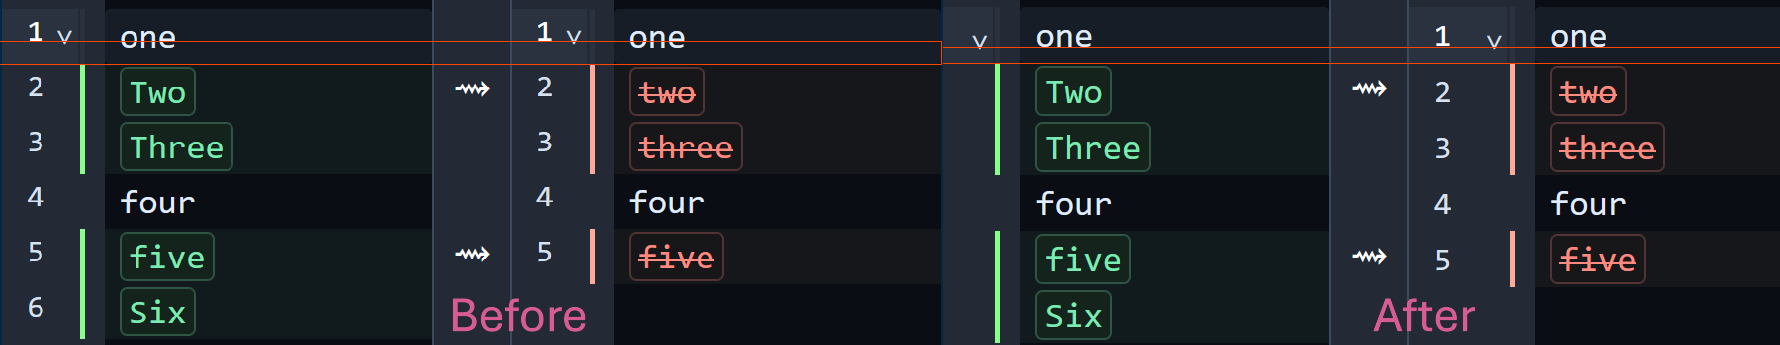
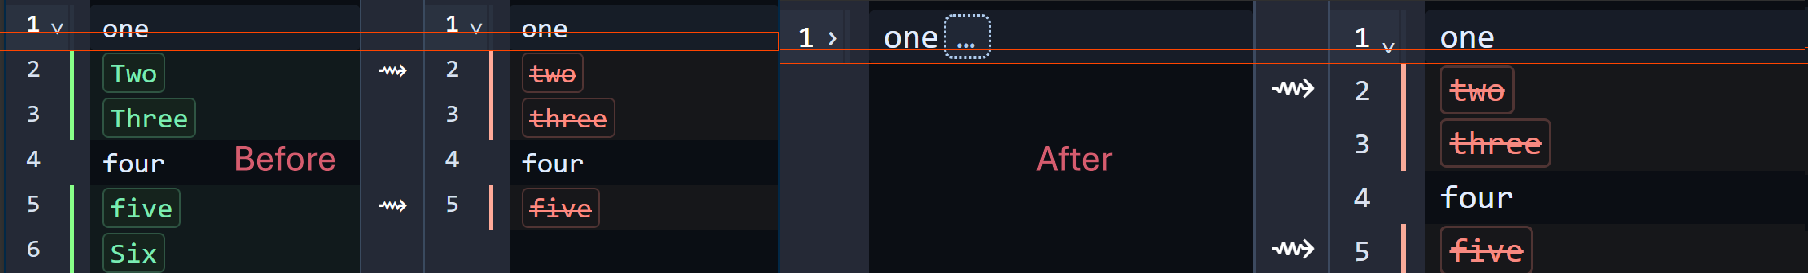
fix: demo

diff --git a/demo/scripts/playground.ts b/demo/scripts/playground.ts
@@ -5,7 +5,6 @@ import { Compartment, EditorState } from '@codemirror/state';
 import { diffMdSample, mdSample } from './markdown.example';
 import { applyMergeRevertStyles, themes } from './themes';
 import { MergeView, unifiedMergeView } from '@codemirror/merge';
-import { foldGutter } from '@codemirror/language';
 
 const elCM = document.querySelector('#codemirror')!;
 const elDCM = document.querySelector('#diff-codemirror')!;
@@ -21,7 +20,6 @@ const diffEditor = new MergeView({
     doc: diffMdSample,
     extensions: [
       basicSetup,
-      foldGutter(),
       EditorView.editable.of(false),
       EditorState.readOnly.of(true),
       markdown({
@@ -37,7 +35,6 @@ const diffEditor = new MergeView({
     doc: diffMdSample.replace(/t/g, 'T') + '\nSix',
     extensions: [
       basicSetup,
-      foldGutter(),
       markdown({
         base: markdownLanguage,
         codeLanguages: languages,
@@ -54,7 +51,6 @@ const unifiedDiff = new EditorView({
   doc: diffMdSample.replace(/t/g, 'T') + '\nSix',
   extensions: [
     basicSetup,
-    foldGutter(),
     unifiedMergeView({
       original: diffMdSample,
     }),
@@ -73,7 +69,6 @@ const editor = new EditorView({
   doc: mdSample,
   extensions: [
     basicSetup,
-    foldGutter(),
     markdown({
       base: markdownLanguage,
       codeLanguages: languages,

diff --git a/CHANGELOG.md b/CHANGELOG.md
@@ -70,6 +70,7 @@ No changes have been made yet.
 		- `typescript-eslint` from `8.39.1` to `8.48.0`
 - **Removed dependencies** — removed unused dependencies.
 	- Dev Dependencies
+  		- Removed `@types/prismjs` dependency.
 		- Removed `prettier` dependency.
 		- Removed `ts-node` dependency.
 
